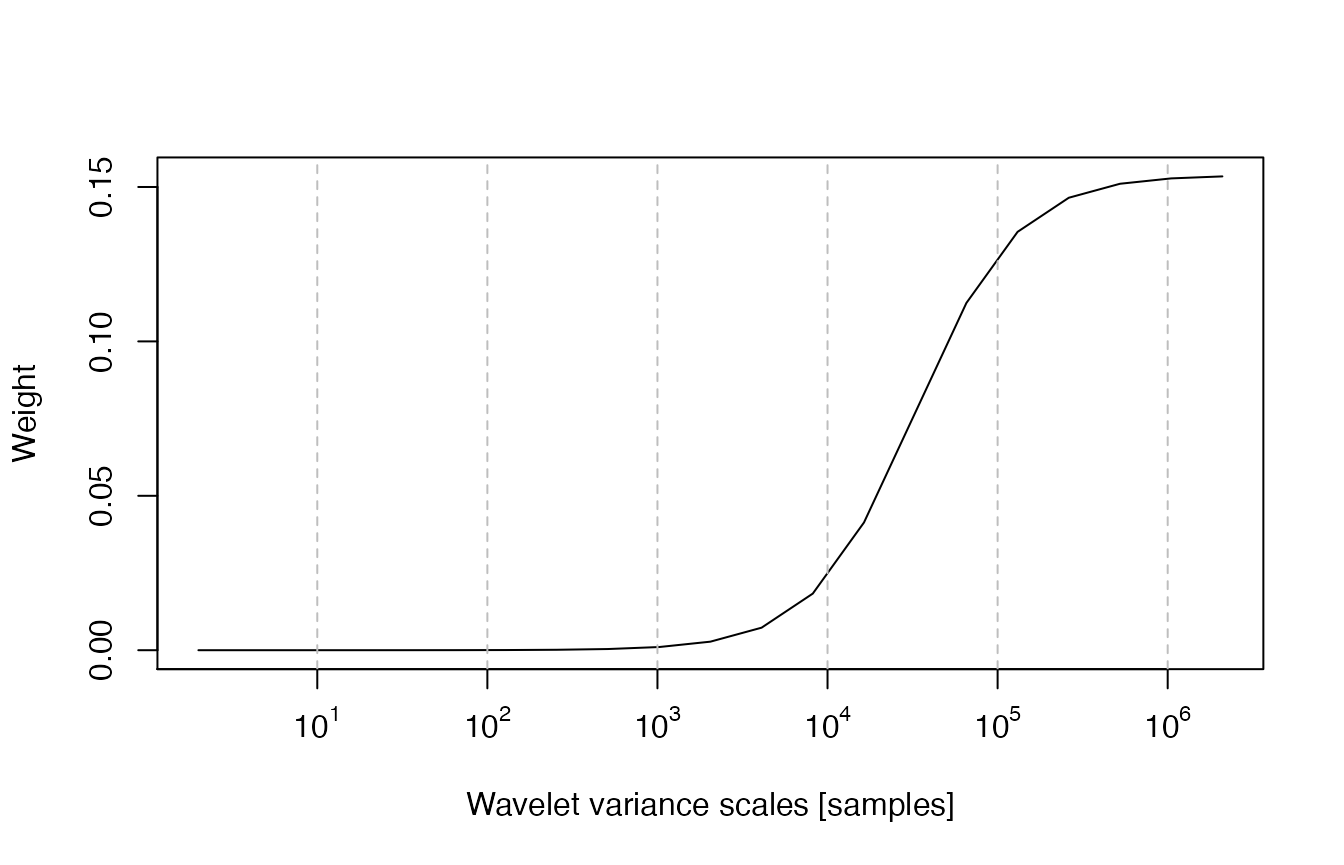
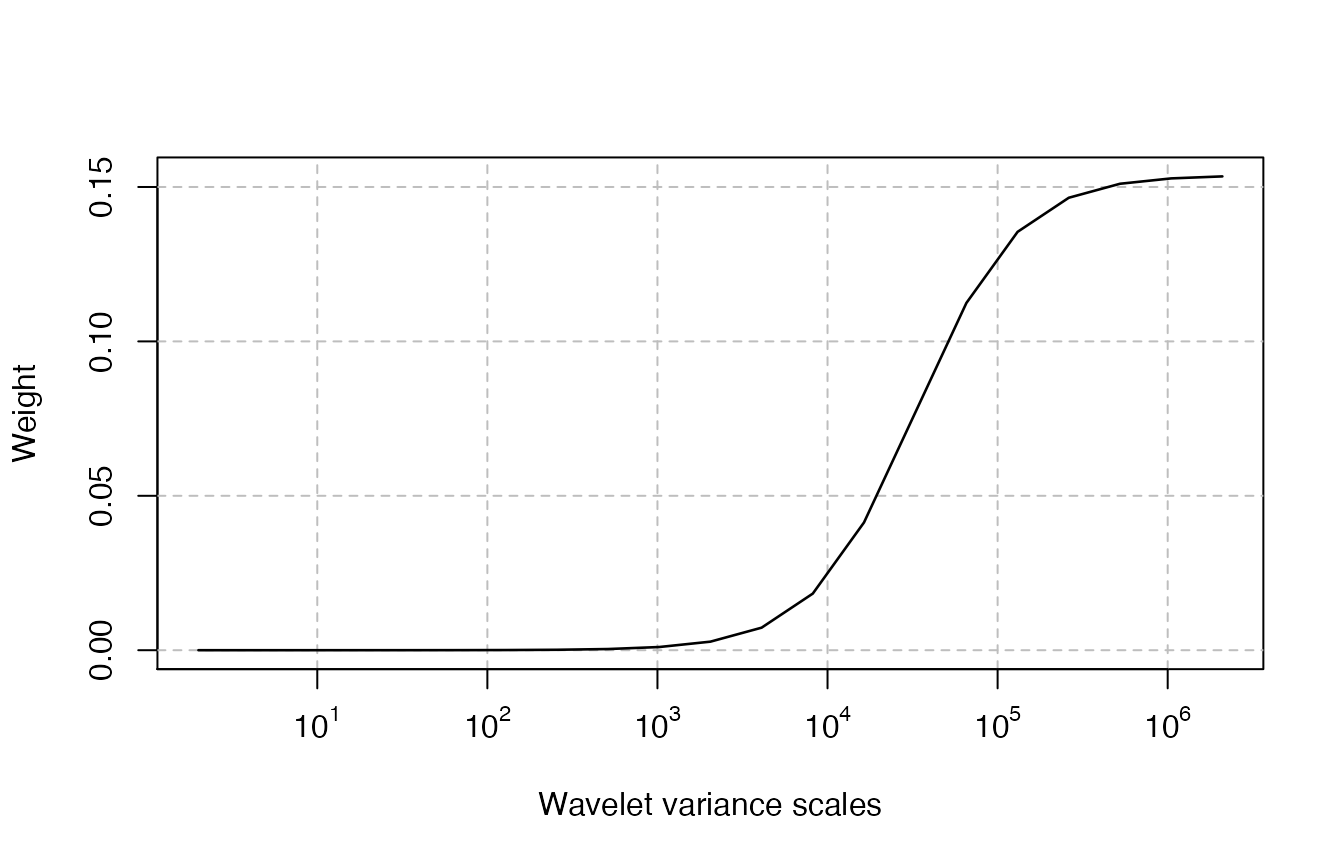
update vignettes

diff --git a/docs/articles/vignettes.html b/docs/articles/vignettes.html
@@ -97,12 +97,15 @@
 <span class="va">weights</span> <span class="op">=</span> <span class="fu"><a href="https://rdrr.io/r/base/Log.html" class="external-link">exp</a></span><span class="op">(</span><span class="va">tau</span><span class="op">-</span><span class="fl">15</span><span class="op">)</span><span class="op">/</span><span class="op">(</span><span class="fl">1</span> <span class="op">+</span> <span class="fu"><a href="https://rdrr.io/r/base/Log.html" class="external-link">exp</a></span><span class="op">(</span><span class="va">tau</span><span class="op">-</span><span class="fl">15</span><span class="op">)</span><span class="op">)</span>
 <span class="va">weights</span> <span class="op">=</span> <span class="va">weights</span><span class="op">/</span><span class="fu"><a href="https://rdrr.io/r/base/sum.html" class="external-link">sum</a></span><span class="op">(</span><span class="va">weights</span><span class="op">)</span>
 
-<span class="fu"><a href="https://rdrr.io/r/graphics/plot.html" class="external-link">plot</a></span><span class="op">(</span><span class="va">tau</span>, <span class="va">weights</span>, xlab <span class="op">=</span> <span class="st">"Wavelet variance scales [samples]"</span>, ylab <span class="op">=</span> <span class="st">"Weight"</span>, type <span class="op">=</span> <span class="st">"l"</span>, xaxt<span class="op">=</span><span class="st">"n"</span><span class="op">)</span>
+<span class="fu"><a href="https://rdrr.io/r/graphics/plot.html" class="external-link">plot</a></span><span class="op">(</span><span class="cn">NA</span>, xlim <span class="op">=</span> <span class="fu"><a href="https://rdrr.io/r/base/range.html" class="external-link">range</a></span><span class="op">(</span><span class="va">tau</span><span class="op">)</span>, ylim <span class="op">=</span> <span class="fu"><a href="https://rdrr.io/r/base/range.html" class="external-link">range</a></span><span class="op">(</span><span class="va">weights</span><span class="op">)</span>, xlab <span class="op">=</span> <span class="st">"Wavelet variance scales"</span>, ylab <span class="op">=</span> <span class="st">"Weight"</span>, xaxt<span class="op">=</span><span class="st">"n"</span><span class="op">)</span>
+<span class="va">p10s</span> <span class="op">=</span> <span class="fu"><a href="https://rdrr.io/r/base/seq.html" class="external-link">seq</a></span><span class="op">(</span><span class="fl">0</span>,<span class="fu"><a href="https://rdrr.io/r/base/Log.html" class="external-link">log10</a></span><span class="op">(</span><span class="fl">2</span><span class="op">^</span><span class="op">(</span><span class="fu"><a href="https://rdrr.io/r/utils/head.html" class="external-link">tail</a></span><span class="op">(</span><span class="va">tau</span>,<span class="fl">1</span><span class="op">)</span><span class="op">)</span><span class="op">)</span><span class="op">)</span>
+
+<span class="fu"><a href="https://rdrr.io/r/graphics/abline.html" class="external-link">abline</a></span><span class="op">(</span>v <span class="op">=</span> <span class="fu"><a href="https://rdrr.io/r/base/Log.html" class="external-link">log2</a></span><span class="op">(</span><span class="fl">10</span><span class="op">^</span><span class="va">p10s</span><span class="op">)</span>, col <span class="op">=</span> <span class="st">"grey"</span>, lt <span class="op">=</span> <span class="fl">2</span> <span class="op">)</span>
+<span class="fu"><a href="https://rdrr.io/r/graphics/abline.html" class="external-link">abline</a></span><span class="op">(</span>h <span class="op">=</span> <span class="fu"><a href="https://rdrr.io/r/base/seq.html" class="external-link">seq</a></span><span class="op">(</span><span class="fl">0</span>,<span class="fl">0.15</span>,<span class="fl">0.05</span><span class="op">)</span>, col <span class="op">=</span> <span class="st">"grey"</span>, lt <span class="op">=</span> <span class="fl">2</span> <span class="op">)</span>
+<span class="fu"><a href="https://rdrr.io/r/graphics/lines.html" class="external-link">lines</a></span><span class="op">(</span><span class="va">tau</span>, <span class="va">weights</span>, lwd <span class="op">=</span> <span class="fl">1.3</span><span class="op">)</span>
 
 <span class="co"># plot x axis labels in samples (powers of 10)</span>
-<span class="va">p10s</span> <span class="op">=</span> <span class="fu"><a href="https://rdrr.io/r/base/seq.html" class="external-link">seq</a></span><span class="op">(</span><span class="fl">0</span>,<span class="fu"><a href="https://rdrr.io/r/base/Log.html" class="external-link">log10</a></span><span class="op">(</span><span class="fl">2</span><span class="op">^</span><span class="op">(</span><span class="fu"><a href="https://rdrr.io/r/utils/head.html" class="external-link">tail</a></span><span class="op">(</span><span class="va">tau</span>,<span class="fl">1</span><span class="op">)</span><span class="op">)</span><span class="op">)</span><span class="op">)</span>
-<span class="fu"><a href="https://rdrr.io/r/graphics/axis.html" class="external-link">axis</a></span><span class="op">(</span><span class="fl">1</span>, at <span class="op">=</span> <span class="fu"><a href="https://rdrr.io/r/base/Log.html" class="external-link">log2</a></span><span class="op">(</span><span class="fl">10</span><span class="op">^</span><span class="va">p10s</span><span class="op">)</span>, labels <span class="op">=</span> <span class="fu"><a href="https://rdrr.io/r/base/lapply.html" class="external-link">sapply</a></span><span class="op">(</span><span class="va">p10s</span>, <span class="kw">function</span><span class="op">(</span><span class="va">i</span><span class="op">)</span> <span class="fu"><a href="https://rdrr.io/r/base/expression.html" class="external-link">as.expression</a></span><span class="op">(</span><span class="fu"><a href="https://rdrr.io/r/base/bquote.html" class="external-link">bquote</a></span><span class="op">(</span><span class="fl">10</span><span class="op">^</span> <span class="fu">.</span><span class="op">(</span><span class="va">i</span><span class="op">)</span><span class="op">)</span><span class="op">)</span><span class="op">)</span><span class="op">)</span>
-<span class="fu"><a href="https://rdrr.io/r/graphics/abline.html" class="external-link">abline</a></span><span class="op">(</span>v <span class="op">=</span> <span class="fu"><a href="https://rdrr.io/r/base/Log.html" class="external-link">log2</a></span><span class="op">(</span><span class="fl">10</span><span class="op">^</span><span class="va">p10s</span><span class="op">)</span>, col <span class="op">=</span> <span class="st">"grey"</span>, lt <span class="op">=</span> <span class="fl">2</span> <span class="op">)</span></code></pre></div>
+<span class="fu"><a href="https://rdrr.io/r/graphics/axis.html" class="external-link">axis</a></span><span class="op">(</span><span class="fl">1</span>, at <span class="op">=</span> <span class="fu"><a href="https://rdrr.io/r/base/Log.html" class="external-link">log2</a></span><span class="op">(</span><span class="fl">10</span><span class="op">^</span><span class="va">p10s</span><span class="op">)</span>, labels <span class="op">=</span> <span class="fu"><a href="https://rdrr.io/r/base/lapply.html" class="external-link">sapply</a></span><span class="op">(</span><span class="va">p10s</span>, <span class="kw">function</span><span class="op">(</span><span class="va">i</span><span class="op">)</span> <span class="fu"><a href="https://rdrr.io/r/base/expression.html" class="external-link">as.expression</a></span><span class="op">(</span><span class="fu"><a href="https://rdrr.io/r/base/bquote.html" class="external-link">bquote</a></span><span class="op">(</span><span class="fl">10</span><span class="op">^</span> <span class="fu">.</span><span class="op">(</span><span class="va">i</span><span class="op">)</span><span class="op">)</span><span class="op">)</span><span class="op">)</span><span class="op">)</span></code></pre></div>
 <p><img src="vignettes_files/figure-html/unnamed-chunk-2-1.png" width="672"></p>
 <p>Once the weights on scales have been specified, one can obtain the coefficients to be used in the linear combination of single gyroscope signals as follows:</p>
 <div class="sourceCode" id="cb3"><pre class="downlit sourceCode r">

diff --git a/docs/index.html b/docs/index.html
@@ -12,7 +12,7 @@
 <link rel="stylesheet" href="https://cdnjs.cloudflare.com/ajax/libs/font-awesome/5.12.1/css/v4-shims.min.css" integrity="sha256-wZjR52fzng1pJHwx4aV2AO3yyTOXrcDW7jBpJtTwVxw=" crossorigin="anonymous">
 <!-- clipboard.js --><script src="https://cdnjs.cloudflare.com/ajax/libs/clipboard.js/2.0.6/clipboard.min.js" integrity="sha256-inc5kl9MA1hkeYUt+EC3BhlIgyp/2jDIyBLS6k3UxPI=" crossorigin="anonymous"></script><!-- headroom.js --><script src="https://cdnjs.cloudflare.com/ajax/libs/headroom/0.11.0/headroom.min.js" integrity="sha256-AsUX4SJE1+yuDu5+mAVzJbuYNPHj/WroHuZ8Ir/CkE0=" crossorigin="anonymous"></script><script src="https://cdnjs.cloudflare.com/ajax/libs/headroom/0.11.0/jQuery.headroom.min.js" integrity="sha256-ZX/yNShbjqsohH1k95liqY9Gd8uOiE1S4vZc+9KQ1K4=" crossorigin="anonymous"></script><!-- pkgdown --><link href="pkgdown.css" rel="stylesheet">
 <script src="pkgdown.js"></script><meta property="og:title" content="Scale-wise Variance Optimization">
-<meta property="og:description" content="This R package contains the functions and datasets that allow to replicate the examples considered in Zhang, et al. (2021) &lt;arXiv: 2106.15997&gt;. In particular, this package implements a non-parametric method that makes use of the wavelet cross-covariance at different scales to combine the measurements coming from an array of gyroscopes in order to deliver an optimal measurement signal without needing any assumption on the processes underlying the individual error signals. Although the method is illustrated with the applications of gyroscopes, it can be applied to any sensor or signal where one aims to compute an average signal having optimal properties in terms of its resulting wavelet variance. Moreover, in this package we also provide a rigorous non-parametric approach for the estimation of the asymptotic covariance matrix of the wavelet cross-covariance estimator which has different important applications.   ">
+<meta property="og:description" content="This R package contains the functions and datasets that allow to replicate the examples considered in Zhang et al. (2021) &lt;arXiv: 2106.15997&gt;. In particular, this package implements a non-parametric method that makes use of the wavelet cross-covariance at different scales to combine the measurements coming from an array of gyroscopes in order to deliver an optimal measurement signal without needing any assumption on the processes underlying the individual error signals. Although the method is illustrated with the applications of gyroscopes, it can be applied to any sensor or signal where one aims to compute an average signal having optimal properties in terms of its resulting wavelet variance. Moreover, in this package we also provide a rigorous non-parametric approach for the estimation of the asymptotic covariance matrix of the wavelet cross-covariance estimator which has different important applications.   ">
 <!-- mathjax --><script src="https://cdnjs.cloudflare.com/ajax/libs/mathjax/2.7.5/MathJax.js" integrity="sha256-nvJJv9wWKEm88qvoQl9ekL2J+k/RWIsaSScxxlsrv8k=" crossorigin="anonymous"></script><script src="https://cdnjs.cloudflare.com/ajax/libs/mathjax/2.7.5/config/TeX-AMS-MML_HTMLorMML.js" integrity="sha256-84DKXVJXs0/F8OTMzX4UR909+jtl4G7SPypPavF+GfA=" crossorigin="anonymous"></script><!--[if lt IE 9]>
 <script src="https://oss.maxcdn.com/html5shiv/3.7.3/html5shiv.min.js"></script>
 <script src="https://oss.maxcdn.com/respond/1.4.2/respond.min.js"></script>
@@ -71,7 +71,7 @@
 <div class="page-header"><h1 id="synimu-overview">
 <code>synimu</code> Overview<a class="anchor" aria-label="anchor" href="#synimu-overview"></a>
 </h1></div>
-<p>This <code>synimu</code> package contains the functions and datasets that allow to replicate the examples considered in Zhang, et al. (2021) (see <a href="https://arxiv.org/abs/2106.15997" class="external-link">arXiv:2106.15997</a>). In particular, this package implements a non-parametric method that makes use of the wavelet cross-covariance at different scales to combine the measurements coming from an array of gyroscopes in order to deliver an optimal measurement signal without needing any assumption on the processes underlying the individual error signals. Although the method is illustrated with the applications of gyroscopes, it can be applied to any sensor or signal where one aims to compute an average signal having optimal properties in terms of its resulting wavelet variance. Moreover, in this package we also provide a rigorous non-parametric approach for the estimation of the asymptotic covariance matrix of the wavelet cross-covariance estimator which has different important applications.</p>
+<p>This <code>synimu</code> package contains the functions and datasets that allow to replicate the examples considered in Zhang et al. (2021) (see <a href="https://arxiv.org/abs/2106.15997" class="external-link">arXiv:2106.15997</a>). In particular, this package implements a non-parametric method that makes use of the wavelet cross-covariance at different scales to combine the measurements coming from an array of gyroscopes in order to deliver an optimal measurement signal without needing any assumption on the processes underlying the individual error signals. Although the method is illustrated with the applications of gyroscopes, it can be applied to any sensor or signal where one aims to compute an average signal having optimal properties in terms of its resulting wavelet variance. Moreover, in this package we also provide a rigorous non-parametric approach for the estimation of the asymptotic covariance matrix of the wavelet cross-covariance estimator which has different important applications.</p>
 <p>Below are instructions on how to install and make use of the <code>synimu</code> package.</p>
 <div class="section level2">
 <h2 id="installation-instructions">Installation Instructions<a class="anchor" aria-label="anchor" href="#installation-instructions"></a>
@@ -131,7 +131,7 @@
 <h2 data-toc-skip>Dev status</h2>
 <ul class="list-unstyled">
 <li><a href="https://opensource.org/licenses/AGPL-3.0" class="external-link"><img src="https://img.shields.io/badge/licence-AGPL--3.0-blue.svg" alt="Licence"></a></li>
-<li><a href="https://github.com/SMAC-Group/wv" class="external-link"><img src="https://img.shields.io/badge/last%20change-2022--01--10-yellowgreen.svg" alt="Last-changedate"></a></li>
+<li><a href="https://github.com/SMAC-Group/wv" class="external-link"><img src="https://img.shields.io/badge/last%20change-2022--01--14-yellowgreen.svg" alt="Last-changedate"></a></li>
 </ul>
 </div>
 
